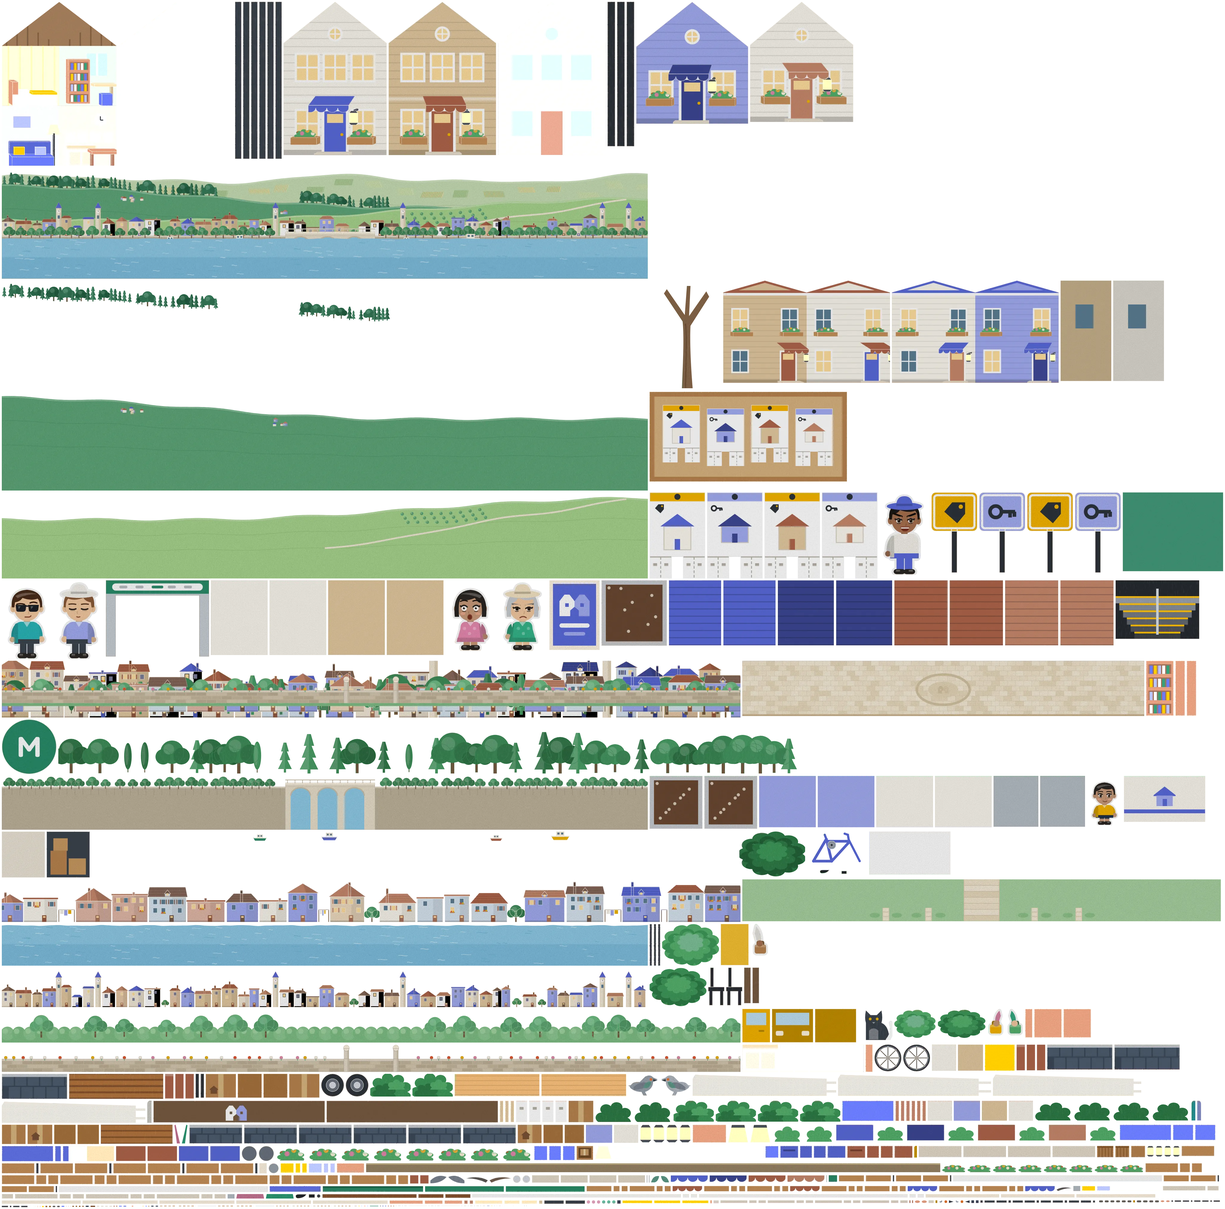
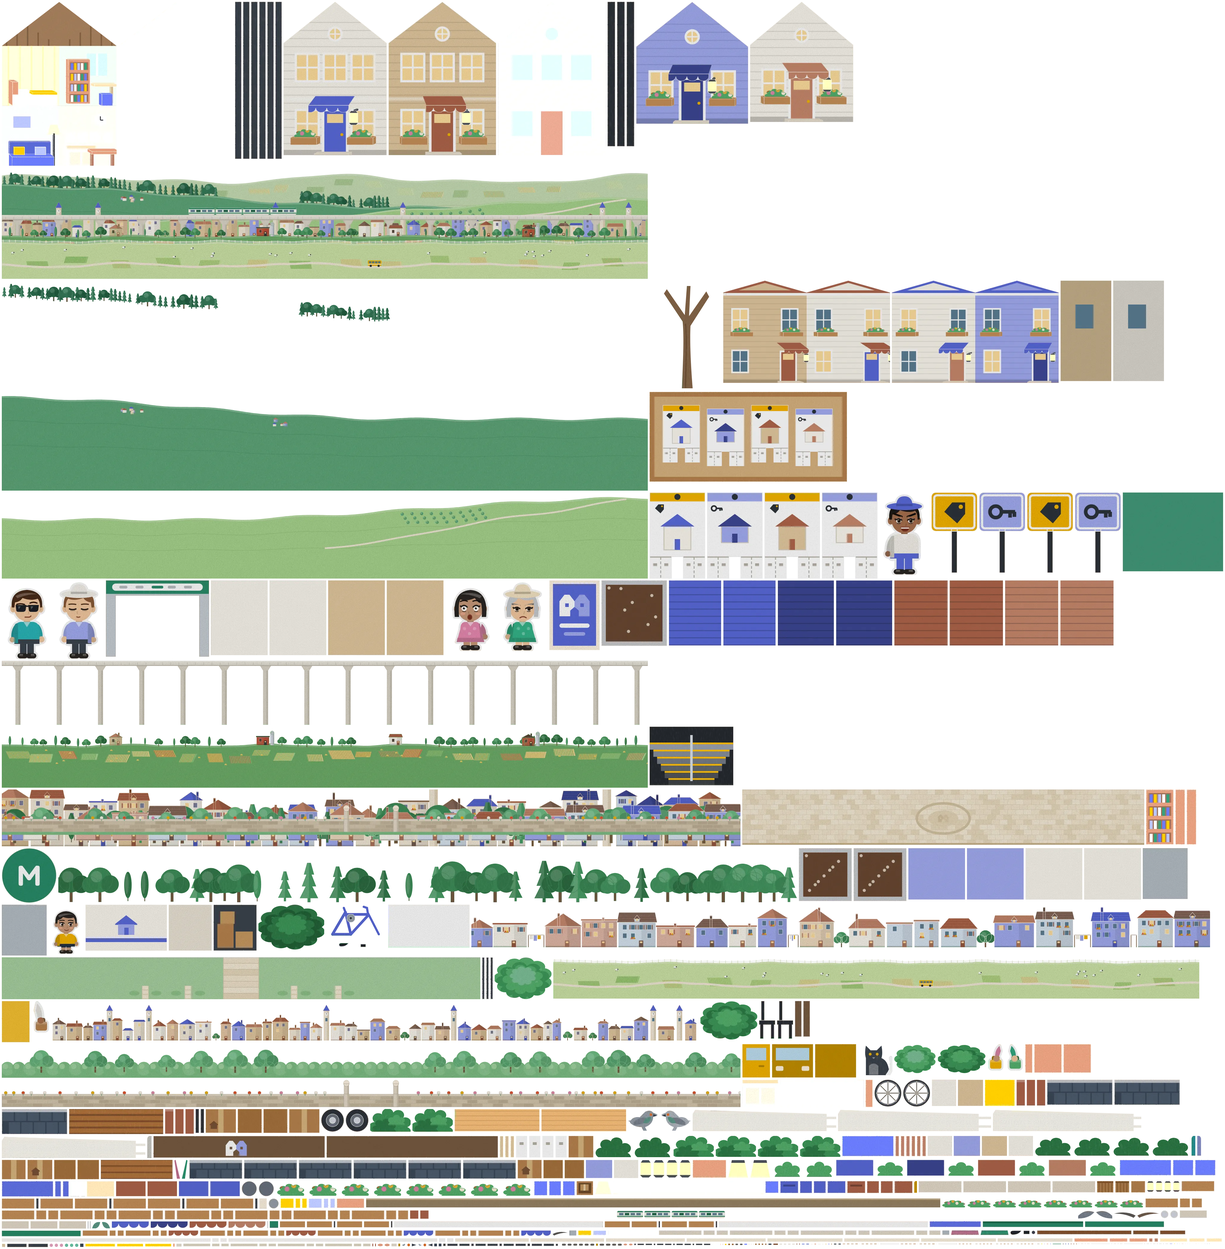
papercraft: no river in the hometown valley; clock centrepiece, front beds, folded dog
The valley floor becomes farmland and a meadow, crossed by the MRT line on
piers with a train on it. The square gains a town clock in a folded flower bed,
two long stone beds along the front edge, and a tent-folded dog at moving day.
The baked art in this commit predates these changes.

Claude-Session: https://claude.ai/code/session_01YPNotSbbJKW5yf9dC5KJqA

diff --git a/game/src/art/scenes/hometown.ts b/game/src/art/scenes/hometown.ts
@@ -33,8 +33,8 @@ function ground(): Panel[] {
   const W = X1 - X0, D = FRONT - GARDEN, SETT = ['#f1e4cc', '#f6ecd8', '#e9dabd', '#f3e7d0'];
   let setts = '';
   for (let row = 0, y = 0; y < D; row++, y += 40) for (let x = row % 2 ? -32 : 0; x < W; x += 64) { const h = Math.sin(x * 12.9898 + y * 78.233) * 43758.5453; setts += `<rect x="${x + 1}" y="${y + 1}" width="62" height="38" fill="${SETT[Math.floor((h - Math.floor(h)) * 4)]}"/>`; }
-  // A ring of darker setts marks the middle of the square, in front of the lane.
-  const ring = `<ellipse cx="${-X0}" cy="${170 - GARDEN}" rx="210" ry="120" fill="none" stroke="#d6c4a2" stroke-width="20"/><ellipse cx="${-X0}" cy="${170 - GARDEN}" rx="120" ry="64" fill="#e6d6b8"/><g transform="translate(${-X0 - 42} ${170 - GARDEN - 30}) scale(2)">${mark(1, '#d6c4a2', '#dccbaa', '#e6d6b8')}</g>`;
+  // A ring of darker setts marks the middle of the square, around the clock.
+  const ring = `<ellipse cx="${-X0}" cy="${170 - GARDEN}" rx="210" ry="120" fill="none" stroke="#d6c4a2" stroke-width="20"/><ellipse cx="${-X0}" cy="${170 - GARDEN}" rx="150" ry="84" fill="#e6d6b8"/>`;
   // Both sheets ship as sixteen tiles: the camera here leans in close, and with wider tiles the browser's 3D sorting tears
   // holes in the ground where standing pieces' planes cut across it.
   const square: Panel = { id: 'square', stock: 'greyboard', c: '#e2d3b6', w: W, h: D, o: [X0, 0, FRONT], u: [1, 0, 0], v: [0, 0, -1], density: .42, edge: 'fold', split: 16, print: `<rect width="${W}" height="${D}" fill="#dccdb0"/>${setts}${ring}<rect y="${D - 14}" width="${W}" height="14" fill="#cdb48c"/>` };
@@ -50,7 +50,7 @@ function ground(): Panel[] {
 
 /* ---------- the open view down the lane: a shadow box ---------- */
 // Thin cut layers stood well apart, alternating pale and deep, each shading the next; real in the bake, then flattened
-// onto two cards. Card one is the lower town just below the square. Card two, further back, is the valley: the river, the
+// onto two cards. Card one is the lower town just below the square. Card two, further back, is the valley floor and the
 // far bank and the hills.
 type Card = { id: string; x0: number; z: number; w: number; density: number };
 const NEAR: Card = { id: 'lane-near', x0: -1300, z: -480, w: 2600, density: .95 };
@@ -170,7 +170,8 @@ function laneView(): Panel[] {
   for (let x = 14; x < W; x += r(22, 60)) if (Math.abs(x - mid) > 120) { wm += `<circle cx="${f(x)}" cy="${WH - 50}" r="6" fill="#fff"/>`; wp += `<circle cx="${f(x)}" cy="${WH - 50}" r="6" fill="${pick(['#e8552d', YEL, '#e88ab0', WHITE])}"/><rect x="${f(x - 1)}" y="${WH - 46}" width="2" height="6" fill="#4aa067"/>`; }
   for (const gx of [mid - 96, mid + 78]) { wm += `<rect x="${gx}" y="14" width="18" height="${WH - 14}" fill="#fff"/><circle cx="${gx + 9}" cy="12" r="11" fill="#fff"/>`; wp += `<rect x="${gx}" y="14" width="18" height="${WH - 14}" fill="#e6dccb"/><rect x="${gx + 12}" y="14" width="6" height="${WH - 14}" fill="#d3c7b2"/><circle cx="${gx + 9}" cy="12" r="11" fill="#fff4e2"/>`; }
 
-  // Card two, the valley, back to front. Eight layers, 30 to 50 units apart, alternating pale and deep.
+  // Card two, the valley, back to front. Nine layers, 30 to 50 units apart, alternating pale and deep. There is no water
+  // in it: the Blibli street already has the river.
   s = 67;
   const FW = FAR.w, fy = -90, fmid = FW / 2;
   // 1. A pale hill of terraced fields.
@@ -189,25 +190,36 @@ function laneView(): Panel[] {
   const road = `<path d="${rd}" stroke="#f4ead8" stroke-width="9" fill="none" stroke-linejoin="round"/>`;
   // 5. The far bank's town: a street of houses with towers and poplars.
   const DH = 220, town = street(FW, DH, 54, 110, 46, 88, ['#f4ead8', STONE, '#e8c9a8', WHITE, LAV], [BRICK, TILE, INDIGO, '#8a6a5c'], '#7c7f9c', .3, .4, ['poplar', 'tower', 'oak', 'oak']);
-  // 6. The quay: a stone wall under a row of plane trees, with a bridge of three arches crossing toward us.
-  const EH = 300, quay = woods(FW, EH, () => 236, [[0, fmid - 260], [fmid + 320, FW]], ['oak'], ['#3f8f5a', '#4aa067'], 54, 72, 64);
-  const bx = fmid - 220, bw = 500, arches = [0, 1, 2].map(i => `M${bx + 30 + i * 150} ${EH}V${EH - 190}a55 44 0 0 1 110 0V${EH}Z`).join(' ');
-  const qm = `<rect y="${EH - 240}" width="${FW}" height="240" fill="#fff"/>` + quay.m + `<path fill-rule="evenodd" d="M${bx} ${EH}V${EH - 262}H${bx + bw}V${EH}Z" fill="#fff"/>`;
-  const qp = `<rect y="${EH - 240}" width="${FW}" height="240" fill="#bfb39c"/><rect y="${EH - 240}" width="${FW}" height="8" fill="#e6dccb"/>${Array.from({ length: Math.floor(FW / 44) }, (_, i) => `<path d="M${i * 44 + 12} ${EH - 232}v40" stroke="#a89c86" stroke-width="2"/>`).join('')}` + quay.p +
-    `<rect x="${bx}" y="${EH - 262}" width="${bw}" height="262" fill="#e9dfcb"/><rect x="${bx}" y="${EH - 262}" width="${bw}" height="10" fill="#fff7e6"/><path d="${arches}" fill="#8fcbe8"/>${[0, 1, 2].map(i => `<path d="M${bx + 30 + i * 150} ${EH - 190}a55 44 0 0 1 110 0" stroke="#cfc2aa" stroke-width="7" fill="none"/>`).join('')}${Array.from({ length: 12 }, (_, i) => `<rect x="${bx + 10 + i * 42}" y="${EH - 276}" width="4" height="16" fill="#e9dfcb"/>`).join('')}<rect x="${bx}" y="${EH - 280}" width="${bw}" height="5" fill="#e9dfcb"/>`;
-  const qmFull = qm + Array.from({ length: 12 }, (_, i) => `<rect x="${bx + 10 + i * 42}" y="${EH - 276}" width="4" height="16" fill="#fff"/>`).join('') + `<rect x="${bx}" y="${EH - 280}" width="${bw}" height="5" fill="#fff"/>`;
-  // 7. Boats on the river: two rowing boats and a ferry, standing between the quay and the water.
-  const boat = (x: number, y: number, k: number, hull: string): Art => ({ m: `<g transform="translate(${x} ${y}) scale(${k})"><path d="M0 0H70L60 16H10Z" fill="#fff"/><rect x="20" y="-16" width="30" height="16" fill="#fff"/></g>`, p: `<g transform="translate(${x} ${y}) scale(${k})"><path d="M0 0H70L60 16H10Z" fill="${hull}"/><rect width="70" height="4" fill="#fff7e6"/><rect x="20" y="-16" width="30" height="16" fill="#fff7e6"/><rect x="24" y="-12" width="8" height="7" fill="${GLASS}"/><rect x="38" y="-12" width="8" height="7" fill="${GLASS}"/></g>` });
-  const BTH = 250, boats = join([boat(fmid - 520, BTH - 222, 1.3, INDIGO), boat(fmid + 420, BTH - 214, 1, BRICK), boat(fmid + 760, BTH - 226, 1.5, YEL), boat(fmid - 900, BTH - 216, 1.1, TEAL)]);
-  // 8. The river in front, in two tones of blue with cut ripples.
-  const RH = 232, river: Prof = rolling(224, 3, 40, 0);
-  const ripple = Array.from({ length: 120 }, () => { const x = r(0, FW), y = r(16, RH - 8), l = r(20, 60); return `<path d="M${f(x)} ${f(y)}q${f(l / 4)} -3 ${f(l / 2)} 0t${f(l / 2)} 0" stroke="${pick(['#d3eefa', '#bfe6f8', '#6fb6da'])}" stroke-width="2.6" fill="none"/>`; }).join('');
+  // 6. The MRT line crossing the valley on slim concrete piers, with a train on it: the line you arrived by, above ground.
+  const VH = 356, deck = 28, vm = `<rect width="${FW}" height="${deck}" fill="#fff"/>` + Array.from({ length: Math.ceil(FW / 230) }, (_, i) => `<path d="M${i * 230 + 60} ${deck}h60l-16 26V${VH}h-28V${deck + 26}Z" fill="#fff"/>`).join('');
+  const vp = `<rect width="${FW}" height="${deck}" fill="#e9e5da"/><rect width="${FW}" height="7" fill="#f8f5ec"/><rect y="${deck - 6}" width="${FW}" height="6" fill="#cfc9bb"/>` + Array.from({ length: Math.ceil(FW / 230) }, (_, i) => `<path d="M${i * 230 + 60} ${deck}h60l-16 26V${VH}h-28V${deck + 26}Z" fill="#dcd7ca"/><rect x="${i * 230 + 94}" y="${deck + 26}" width="10" height="${VH}" fill="#c9c3b4"/>`).join('') +
+    Array.from({ length: Math.ceil(FW / 46) }, (_, i) => `<rect x="${i * 46 + 20}" y="8" width="2.4" height="${deck - 14}" fill="#cfc9bb"/>`).join('');
+  const tx = fmid - 760, cars = [0, 1, 2, 3].map(i => `<rect x="${tx + i * 152}" y="2" width="146" height="40" rx="9" fill="FILL"/>`).join('');
+  const train = `${[0, 1, 2, 3].map(i => `<rect x="${tx + i * 152}" y="2" width="146" height="40" fill="${WHITE}"/><rect x="${tx + i * 152}" y="2" width="146" height="8" fill="${TEAL}"/><rect x="${tx + i * 152}" y="30" width="146" height="5" fill="${TEAL}"/>${[0, 1, 2, 3].map(k => `<rect x="${tx + i * 152 + 12 + k * 32}" y="14" width="24" height="12" fill="${k === 1 ? tone(TEAL, -.3) : GLASS}"/>`).join('')}`).join('')}`;
+  // 7. Farmland on the valley floor: a deep band patched with ploughed fields, hedgerow trees, barns and a silo on its crest.
+  const GHh = 250, farm: Prof = rolling(238, 9, 120, 1.7), farmTrees = woods(FW, GHh + 90, farm, [[0, fmid - 500], [fmid - 260, fmid + 200], [fmid + 520, FW]], ['oak', 'oak', 'poplar'], ['#3f8f5a', '#4aa067', '#347a4b'], 40, 64, 70);
+  const barns: Art[] = [fmid - 380, fmid + 360, fmid + 1100, fmid - 1200].map((x, i) => join([building(x, GHh + 90 - farm(x) + 6, 70, 44, ['#c8553d', WHITE, '#c8553d', STONE][i], [STEEL, BRICK, '#5d4a3c', TILE][i], '#5d4a3c', 0),
+    i % 2 ? none : { m: `<rect x="${f(x + 76)}" y="${f(GHh + 90 - farm(x) - 62)}" width="22" height="70" fill="#fff"/><circle cx="${f(x + 87)}" cy="${f(GHh + 90 - farm(x) - 62)}" r="11" fill="#fff"/>`, p: `<rect x="${f(x + 76)}" y="${f(GHh + 90 - farm(x) - 62)}" width="22" height="70" fill="#d9dde6"/><rect x="${f(x + 90)}" y="${f(GHh + 90 - farm(x) - 62)}" width="8" height="70" fill="#b7bfc7"/><circle cx="${f(x + 87)}" cy="${f(GHh + 90 - farm(x) - 62)}" r="11" fill="#c9d0d6"/>` }]));
+  const farmTop = join([farmTrees, ...barns]);
+  const patches = Array.from({ length: 26 }, (_, i) => { const x = 30 + i * 138 + r(-16, 16); return field(x, GHh + 90 - farm(x) + r(22, 70), r(80, 130), r(30, 50), pick([-26, -14, 14, 26]), pick(['#e6d48a', '#8fc47a', '#d6c06a', '#a9d68f', '#c98a5a']), pick(['#d6c06a', '#7fb46a', '#c4ad58', '#96c67c', '#b5774a'])); }).join('');
+  const hay = Array.from({ length: 30 }, () => { const x = r(0, FW), y = GHh + 90 - farm(x) + r(30, 110); return `<path d="M${f(x - 7)} ${f(y)}a7 8 0 0 1 14 0Z" fill="#e6c860"/><path d="M${f(x - 7)} ${f(y)}a7 8 0 0 1 7 -8Z" fill="#f2dc86"/>`; }).join('');
+  // 8. A pale meadow in front: allotment strips, a lane with a bus on it, sheep, and a post-and-rail fence along its crest.
+  const MH = 214, mead: Prof = rolling(200, 6, 90, .6);
+  let fm = '', fp = ''; for (let x = 6; x < FW; x += 34) { fm += `<rect x="${x}" y="${f(MH + 16 - mead(x) - 14)}" width="4" height="16" fill="#fff"/>`; fp += `<rect x="${x}" y="${f(MH + 16 - mead(x) - 14)}" width="4" height="16" fill="#f4ead8"/>`; }
+  const rails = [4, 10].map(d => `<path d="${line(FW, MH + 16, mead, -d)}" stroke="#f4ead8" stroke-width="2.6" fill="none"/>`).join('');
+  const railsM = [4, 10].map(d => `<path d="${line(FW, MH + 16, mead, -d)}" stroke="#fff" stroke-width="2.6" fill="none"/>`).join('');
+  const sheep = Array.from({ length: 22 }, () => { const x = r(0, FW), y = MH + 16 - mead(x) + r(26, 80); return `<ellipse cx="${f(x)}" cy="${f(y)}" rx="8" ry="5.4" fill="#fdfcf6"/><circle cx="${f(x + 7)}" cy="${f(y - 2)}" r="3" fill="${STEEL}"/><rect x="${f(x - 5)}" y="${f(y + 4)}" width="2" height="4" fill="${STEEL}"/><rect x="${f(x + 3)}" y="${f(y + 4)}" width="2" height="4" fill="${STEEL}"/>`; }).join('');
+  const plots = Array.from({ length: 14 }, (_, i) => field(120 + i * 250 + r(-30, 30), MH + 16 - mead(120 + i * 250) + r(70, 110), r(90, 140), r(34, 50), pick([-18, 12, 20]), pick(['#b9d98a', '#e2dc9c', '#a3cf7c']), pick(['#a3c878', '#cfc884', '#8fbf6a']))).join('');
+  const bus = `<g transform="translate(${fmid + 240} ${MH + 16 - mead(fmid + 240) + 96})"><rect width="76" height="30" rx="5" fill="${YEL}"/><rect y="19" width="76" height="4" fill="${WHITE}"/>${[0, 1, 2, 3].map(k => `<rect x="${6 + k * 17}" y="5" width="13" height="10" fill="${GLASS}"/>`).join('')}<circle cx="16" cy="30" r="6" fill="${STEEL}"/><circle cx="60" cy="30" r="6" fill="${STEEL}"/></g>`;
+  let ln = ''; for (let x = 0; x <= FW; x += 40) ln += `${x ? 'L' : 'M'}${x} ${f(MH + 16 - mead(x) + 124 + 10 * Math.sin(x / 150))}`;
   return [card, sheet(NEAR, 'lane-trees', 30, y0 - 40, TH, '#3f8f5a', trees.m, trees.p), sheet(NEAR, 'lane-cottages', 62, y0 - 30, CH, WHITE, near.m, near.p),
     sheet(NEAR, 'lane-gardens', 96, y0 - 10, GH, '#7fbf86', gm + orchard.m, gp + orchard.p), sheet(NEAR, 'lane-wall', 128, y0, WH, '#cfc2aa', wm, wp, 'greyboard'),
     far, sheet(FAR, 'lane-wood', 36, fy, BHh + 60, '#2f7453', wood1.m, wood1.p), sheet(FAR, 'lane-ridge', 52, fy, BHh, '#5fa77a', cut(FW, BHh, b), ridgeArt),
     sheet(FAR, 'lane-orchard', 92, fy, CHh, '#a9d68f', cut(FW, CHh, c2), crest(FW, CHh, c2, '#a9d68f') + orch + road),
-    sheet(FAR, 'lane-town', 132, 138, DH, STONE, town.m, town.p), sheet(FAR, 'lane-quay', 170, fy, EH, '#bfb39c', qmFull, qp, 'greyboard'),
-    sheet(FAR, 'lane-boats', 196, fy, BTH, WHITE, boats.m, boats.p, 'cover'), sheet(FAR, 'lane-river', 222, fy, RH, '#8fcbe8', cut(FW, RH, river), `<rect y="${RH - 120}" width="${FW}" height="120" fill="#7fbfe0"/>` + ripple)];
+    sheet(FAR, 'lane-town', 126, 140, DH, STONE, town.m, town.p),
+    sheet(FAR, 'lane-train', 156, fy + VH - 2, 44, WHITE, cars.replaceAll('FILL', '#fff'), train, 'cover'), sheet(FAR, 'lane-viaduct', 168, fy, VH, '#e9e5da', vm, vp, 'greyboard'),
+    sheet(FAR, 'lane-farm', 200, fy, GHh + 90, '#6fae6a', cut(FW, GHh + 90, farm) + farmTop.m, crest(FW, GHh + 90, farm, '#6fae6a', 0) + patches + hay + farmTop.p),
+    sheet(FAR, 'lane-meadow', 232, fy, MH + 16, '#cfe6a8', cut(FW, MH + 16, mead) + fm + railsM, crest(FW, MH + 16, mead, '#cfe6a8', 0) + plots + `<path d="${ln}" stroke="#f4ead8" stroke-width="12" fill="none"/>` + bus + sheep + fp + rails)];
 }
 // The far distance, in the CSS backdrop: sky, a pale sun, two layers of cut clouds, then seven layers of land from snowy
 // peaks down to the wooded hills behind the valley. Kinds and values alternate, and each wood is its own sheet behind its
@@ -399,6 +411,41 @@ function van(id: string, x: number, z: number, rot: number): Panel[] {
 // A carton: a folded kraft box with a strip of tape and a little house stamped on it.
 const carton = (id: string, x: number, z: number, w: number, h: number, d: number, rot = 0, y = 0) => box({ id, x, z, y, w, h, d, rot, stock: 'kraft', c: KRAFT, side: '#a8743f', density: 1.8,
   front: `<rect x="${w / 2 - 5}" width="10" height="${h}" fill="#d9b781"/><g transform="translate(6 ${h - 24}) scale(.6)"><path d="M2 14L15 3L28 14V16H2Z" fill="#7a5237"/><rect x="5" y="15" width="20" height="13" fill="#7a5237"/></g>`, top: `<rect x="${w / 2 - 5}" width="10" height="${d}" fill="#d9b781"/>` });
+// A dog folded like a tent along its back, with the head a separate card glued square across the front and the tail a
+// card behind. Ears, nose and a patch are glued on in tones of its own colour.
+function dog(id: string, x: number, z: number, rot: number, c: string): Panel[] {
+  const P = piece(x, z, rot), L = 58, H = 36, t = 9, h = Math.hypot(H, t);
+  const body = `<path d="M3 ${f(h)}V12Q3 2 14 2H46Q56 2 56 12V${f(h)}H46V${f(h * .62)}H36V${f(h)}H26V${f(h * .62)}H14V${f(h)}Z" fill="#fff"/>`;
+  const near = P(`${id}-near`, [-L / 2, 0, t], [1, 0, 0], unit([0, H, -t]), L, h, { stock: 'sugar', c, density: 2.6, mask: body, edge: 'fold' });
+  const far: Panel = { ...P(`${id}-far`, [L / 2, 0, -t], [-1, 0, 0], unit([0, H, t]), L, h, { stock: 'sugar', c, density: 1, mask: body }), ghost: true };
+  const head = toCamera(P(`${id}-head`, [L / 2 - 2, 14, 15], [0, 0, -1], [0, 1, 0], 30, 34, { stock: 'sugar', c, density: 2.6, mask: '<path d="M4 10L1 0L11 5H19L29 0L26 10V22Q26 34 15 34Q4 34 4 22Z" fill="#fff"/>' }));
+  const tail = P(`${id}-tail`, [-L / 2 - 9, 20, 1], [1, 0, 0], [0, 1, 0], 14, 26, { stock: 'sugar', c: tone(c, -.12), density: 2.6, mask: '<path d="M14 26Q0 20 2 0Q8 10 14 16Z" fill="#fff"/>' });
+  return [near, far, head, tail,
+    on(near, .8, 16, 12, 22, 14, { id: `${id}-patch`, stock: 'sugar', c: tone(c, .4), density: 2.6, mask: '<ellipse cx="11" cy="7" rx="11" ry="7" fill="#fff"/>' }),
+    on(near, .8, 40, h - 10, 14, 5, { id: `${id}-collar`, stock: 'cover', c: INDIGO, density: 2.6 }),
+    on(head, .8, 9, 4, 12, 9, { id: `${id}-muzzle`, stock: 'sugar', c: tone(c, .4), density: 2.6, mask: '<ellipse cx="6" cy="4.5" rx="6" ry="4.5" fill="#fff"/>' }),
+    on(head, 1.4, 12.5, 8, 5, 4, { id: `${id}-nose`, stock: 'cover', c: STEEL, density: 2.6, mask: '<ellipse cx="2.5" cy="2" rx="2.5" ry="2" fill="#fff"/>' }),
+    on(head, .8, 7, 17, 4, 4, { id: `${id}-eye-l`, stock: 'cover', c: STEEL, density: 2.6, mask: disc(2) }), on(head, .8, 19, 17, 4, 4, { id: `${id}-eye-r`, stock: 'cover', c: STEEL, density: 2.6, mask: disc(2) })];
+}
+// A long raised bed for the front edge: a folded stone box of soil, with bushes in layers and cut blossoms glued on.
+function longBed(id: string, x: number, z: number, w: number): Panel[] {
+  const stone = (len: number) => `<rect width="${len}" height="30" fill="#d6c9b0"/>${Array.from({ length: Math.ceil(len / 30) }, (_, i) => `<rect x="${i * 30 + 1}" y="9" width="28" height="9" fill="#cdbfa4"/><rect x="${i * 30 + 16}" y="20" width="28" height="9" fill="#c6b89e"/>`).join('')}<rect width="${len}" height="6" fill="#efe6d4"/>`;
+  const bed = box({ id, x, z, w, h: 30, d: 64, stock: 'cover', c: '#d6c9b0', front: stone(w), left: stone(64), right: stone(64), top: `<rect width="${w}" height="64" fill="#efe6d4"/><rect x="7" y="7" width="${w - 14}" height="50" fill="#6b4a33"/>` });
+  const n = Math.floor(w / 96), plants = Array.from({ length: n }, (_, i) => { const bx = x - w / 2 + (i + .5) * w / n, b = bush(`${id}-bush${i}`, bx, z - 6 + (i % 2) * 8, 92, 46 + (i % 2) * 10, 26);
+    return [...b, ...[0, 1, 2, 3].map(k => on(b[0], 12, 12 + k * 20, 18 + (k % 2) * 16, 11, 11, { id: `${id}-bloom${i}${k}`, stock: 'sugar', c: [YEL, WHITE, '#e88ab0', LAV][(i + k) % 4], mask: disc(5.5) }))]; });
+  return [...bed, ...plants.flat()];
+}
+// The square's centrepiece: a low folded bed of flowers with the town clock standing in it. The clock's head is a folded
+// box with a cut face glued on; its post is a flat strip.
+function clockBed(x: number, z: number): Panel[] {
+  const side = (len: number) => `<rect width="${len}" height="26" fill="#d6c9b0"/><rect width="${len}" height="6" fill="#efe6d4"/>${Array.from({ length: Math.ceil(len / 34) }, (_, i) => `<rect x="${i * 34 + 2}" y="10" width="30" height="13" fill="#cdbfa4"/>`).join('')}`;
+  const bed = box({ id: 'clock-bed', x, z, w: 190, h: 26, d: 130, stock: 'cover', c: '#d6c9b0', front: side(190), left: side(130), right: side(130), top: `<rect width="190" height="130" fill="#efe6d4"/><rect x="8" y="8" width="174" height="114" fill="#8fc48a"/>${Array.from({ length: 26 }, (_, i) => `<circle cx="${20 + (i * 53) % 150}" cy="${20 + (i * 31) % 90}" r="5" fill="${[YEL, WHITE, '#e88ab0', LAV, '#e8552d'][i % 5]}"/>`).join('')}` });
+  const post: Panel = { id: 'clock-post', stock: 'greyboard', c: STEEL, w: 9, h: 150, o: [x - 4.5, 26, z], u: [1, 0, 0], v: [0, 1, 0], edge: 'fold', density: 1.8 };
+  const head = box({ id: 'clock-head', x, z, y: 170, w: 54, h: 54, d: 16, stock: 'cover', c: tone(INDIGO, -.3), density: 2.4, front: `<rect width="54" height="54" fill="${tone(INDIGO, -.3)}"/>` });
+  const face = on(head[0], 1.2, 6, 6, 42, 42, { id: 'clock-face', stock: 'cover', c: '#fffdf6', density: 2.4, mask: disc(21), print: `<circle cx="21" cy="21" r="21" fill="#fffdf6"/>${Array.from({ length: 12 }, (_, i) => `<rect x="20" y="2" width="2" height="${i % 3 ? 3 : 6}" fill="${STEEL}" transform="rotate(${i * 30} 21 21)"/>`).join('')}<path d="M21 21V9M21 21L29 25" stroke="${STEEL}" stroke-width="2.6" stroke-linecap="round"/><circle cx="21" cy="21" r="2.4" fill="${YEL}"/>` });
+  const cap = box({ id: 'clock-cap', x, z, y: 224, w: 64, h: 8, d: 24, stock: 'cover', c: YEL, density: 2 });
+  return [...bed, post, ...head, face, ...cap, ...bush('clock-bush-a', x - 54, z - 14, 70, 40, 24), ...bush('clock-bush-b', x + 56, z - 10, 64, 36, 24)];
+}
 // A cat sitting on a fence rail: flat, because it sits against the fence.
 const cat = (id: string, x: number, y: number, z: number, c: string): Panel => ({ id, stock: 'sugar', c, w: 44, h: 40, o: [x - 22, y, z], u: [1, 0, 0], v: [0, 1, 0], edge: 'cut', density: 2.6,
   mask: '<path d="M10 40V18Q8 12 10 2L16 8H24L30 2Q32 12 30 18Q40 22 40 40Z" fill="#fff"/><path d="M38 40Q46 30 42 18" stroke="#fff" stroke-width="5" fill="none" stroke-linecap="round"/>',
@@ -437,7 +484,7 @@ function surroundings(): Panel[] {
   return [...sides,
     ...HOMES.flatMap((h, i) => [...home(h, h === h3), ...fence(h), offerSign(h, i), ...bush(`${h.id}-bush`, h.x + h.w / 2 + 8, GARDEN - 22, 96, 50)]), ...rooms(h3),
     // The MRT exit at the left end of the square, with the way to the product beside it.
-    ...mrtExit(-930, 60), ...aBoard('visit', -710, 120, -10),
+    ...mrtExit(-930, 60), ...aBoard('visit', -640, 96, -10),
     // The flyer board stands at the mouth of the lane.
     ...flyerBoard(-84, -74, 0),
     // Small stories. A couple looking over the home that opens; a neighbour at her gate; a cat on the next fence.
@@ -450,13 +497,16 @@ function surroundings(): Panel[] {
     ...van('van', h4.x + 120, 96, 8), ...carton('carton-a', h4.x - 60, 70, 56, 44, 44, -8), ...carton('carton-b', h4.x - 66, 68, 44, 34, 36, 10, 44), ...carton('carton-c', h4.x - 2, 100, 46, 36, 40, 14),
     ...shopper('mover', h4.x - 6, -10, { coat: '#f4f1ea', legs: '#5b6bdc', skin: '#a8714f', hair: '#1d1a17', build: 'big', face: 'determined', carry: KRAFT, hat: INDIGO }),
     ...shopper('child', h4.x - 130, 150, { coat: YEL, legs: '#22324a', skin: '#c99a7a', hair: '#2b2622', style: 'shorts', face: 'cheerful' }, false, .7, 0, false),
-    ...pigeon('pigeon-a', 60, 190, -20, '#9aa3ad'), ...pigeon('pigeon-b', 108, 204, 16, '#b3bac3', true),
+    ...dog('dog', h4.x - 190, 176, -30, '#c98a4e'),
+    ...pigeon('pigeon-a', 150, 250, -20, '#9aa3ad'), ...pigeon('pigeon-b', 198, 262, 16, '#b3bac3', true),
     // The right end: a shade tree over a bench, someone dozing beside it.
     ...shadeTree('tree', 1010, 150, 300), ...planter('tree-bed', 1010, 150, 104), ...bench('bench', 880, 210, 150, -10),
     ...shopper('dozer', 930, 250, { coat: LAV, legs: '#3d444e', skin: '#f3c9a0', hair: '#8a5a3a', build: 'average', face: 'sleepy', hat: '#f4f1ea' }, true, 1, 0, false),
     // The front edge: a lamp at each end and two low beds of bushes.
     ...streetLamp('lamp-a', -1060, 340, 250, '#ffe7a8'), ...streetLamp('lamp-b', 1150, 344, 250, '#ffe7a8'),
-    ...planter('front-bed-a', -420, 336, 84, 30), ...bush('front-bush-a', -420, 330, 96, 54, 26), ...planter('front-bed-b', 470, 336, 84, 30), ...bush('front-bush-b', 470, 330, 96, 54, 26)];
+    ...longBed('front-bed-a', -520, 338, 300), ...longBed('front-bed-b', 560, 338, 300),
+    // The middle of the square: the town clock in its bed of flowers.
+    ...clockBed(0, 176)];
 }
 
 export function hometown(): Scene {

diff --git a/game/src/content.ts b/game/src/content.ts
@@ -92,12 +92,12 @@ export const content: Content = validateContent({ worlds: {
   // Moperty: the square of a small hometown where a handful of homes are on offer. Only the product is shown, and by
   // things you can touch: a board of flyers, signs in the gardens, a home that opens. No screens, no tech.
   moperty: { id: 'moperty', art: 'hometown', back: { world: 'crossroads', stop: 'road-moperty' }, camera: { zoom: .85, x0: -420, x1: 380 }, bounds: { x0: -1000, x1: 900, z0: -40, z1: 240 },
-    solid: [{ x0: -1050, x1: -810, z0: -40, z1: 140 }, { x0: 660, x1: 880, z0: 40, z1: 150 }],
+    solid: [{ x0: -1050, x1: -810, z0: -40, z1: 140 }, { x0: 660, x1: 880, z0: 40, z1: 150 }, { x0: -100, x1: 100, z0: 106, z1: 240 }],
     title: 'Moperty', path: 'street', url: 'https://moperty.id', role: 'In My Free Time Developing', color: '#3f51b5', logo: 'brand/moperty-white.svg',
     description: 'A progressive web app to browse available real estate in local area around my hometown.',
     stops: [
       { id: 'way-out', label: 'Back to the crossroads', x: -930, z: 180, reach: 100, action: { kind: 'road', to: 'crossroads', stop: 'road-moperty' } },
-      { id: 'visit', label: 'Visit Moperty', x: -710, z: 160, action: { kind: 'link', href: 'https://moperty.id' } },
+      { id: 'visit', label: 'Visit Moperty', x: -590, z: 130, action: { kind: 'link', href: 'https://moperty.id' } },
       { id: 'board', label: 'Flyer board', x: -84, z: -10, focus: 1.5, look: -84, action: { kind: 'toy', toy: 'flyer', states: 5 } },
       { id: 'home', label: 'Open house', x: 500, z: 10, focus: 1.45, look: 330, action: { kind: 'toy', toy: 'home', states: 2 } } ],
     letters: [],
